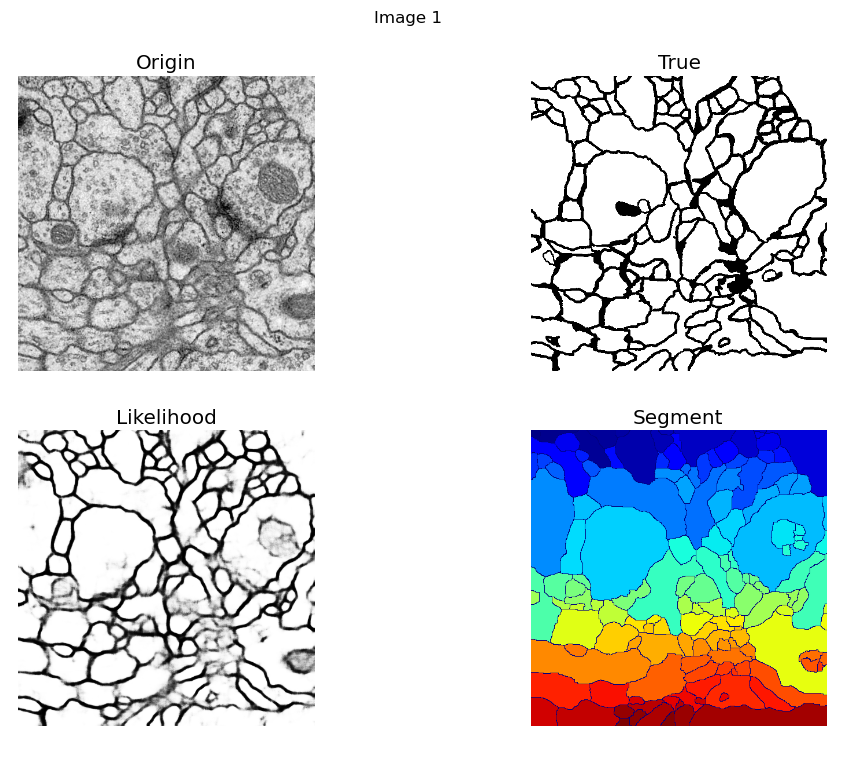
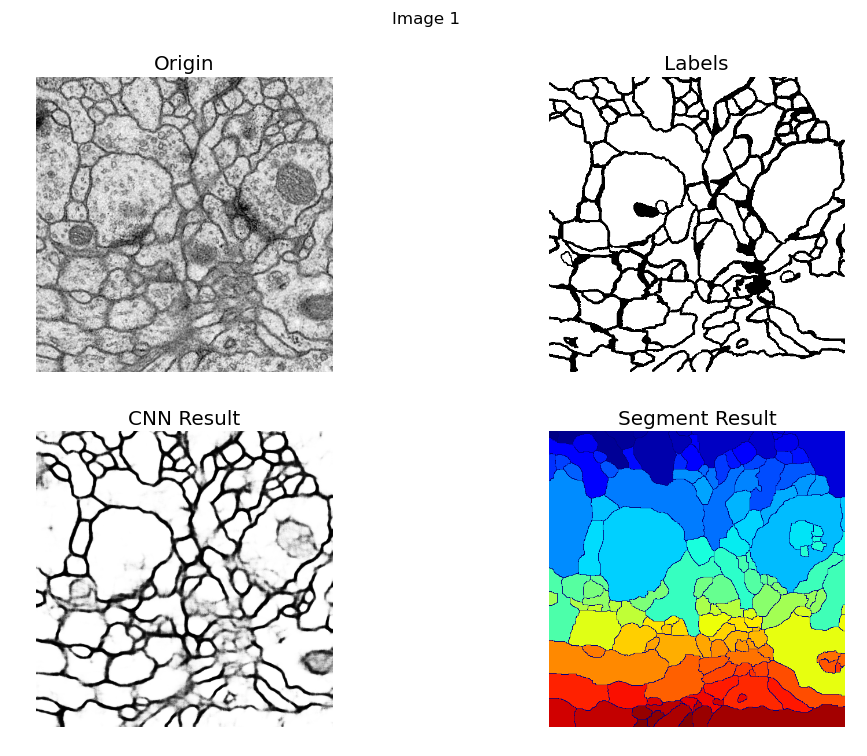
Change readme

diff --git a/Show.py b/Show.py
@@ -32,17 +32,17 @@ def show(config):
         plt.axis('off')
 
         plt.subplot(2, 2, 2)
-        plt.title("True")
+        plt.title("Labels")
         plt.imshow(images2[curr_pos], cmap="Greys_r")
         plt.axis('off')
 
         plt.subplot(2, 2, 3)
-        plt.title("Likelihood")
+        plt.title("CNN Result")
         plt.imshow(images3[curr_pos], cmap="Greys_r")
         plt.axis('off')
 
         plt.subplot(2, 2, 4)
-        plt.title("Segment")
+        plt.title("Segment Result")
         plt.imshow(images4[curr_pos])
         plt.axis('off')
 
